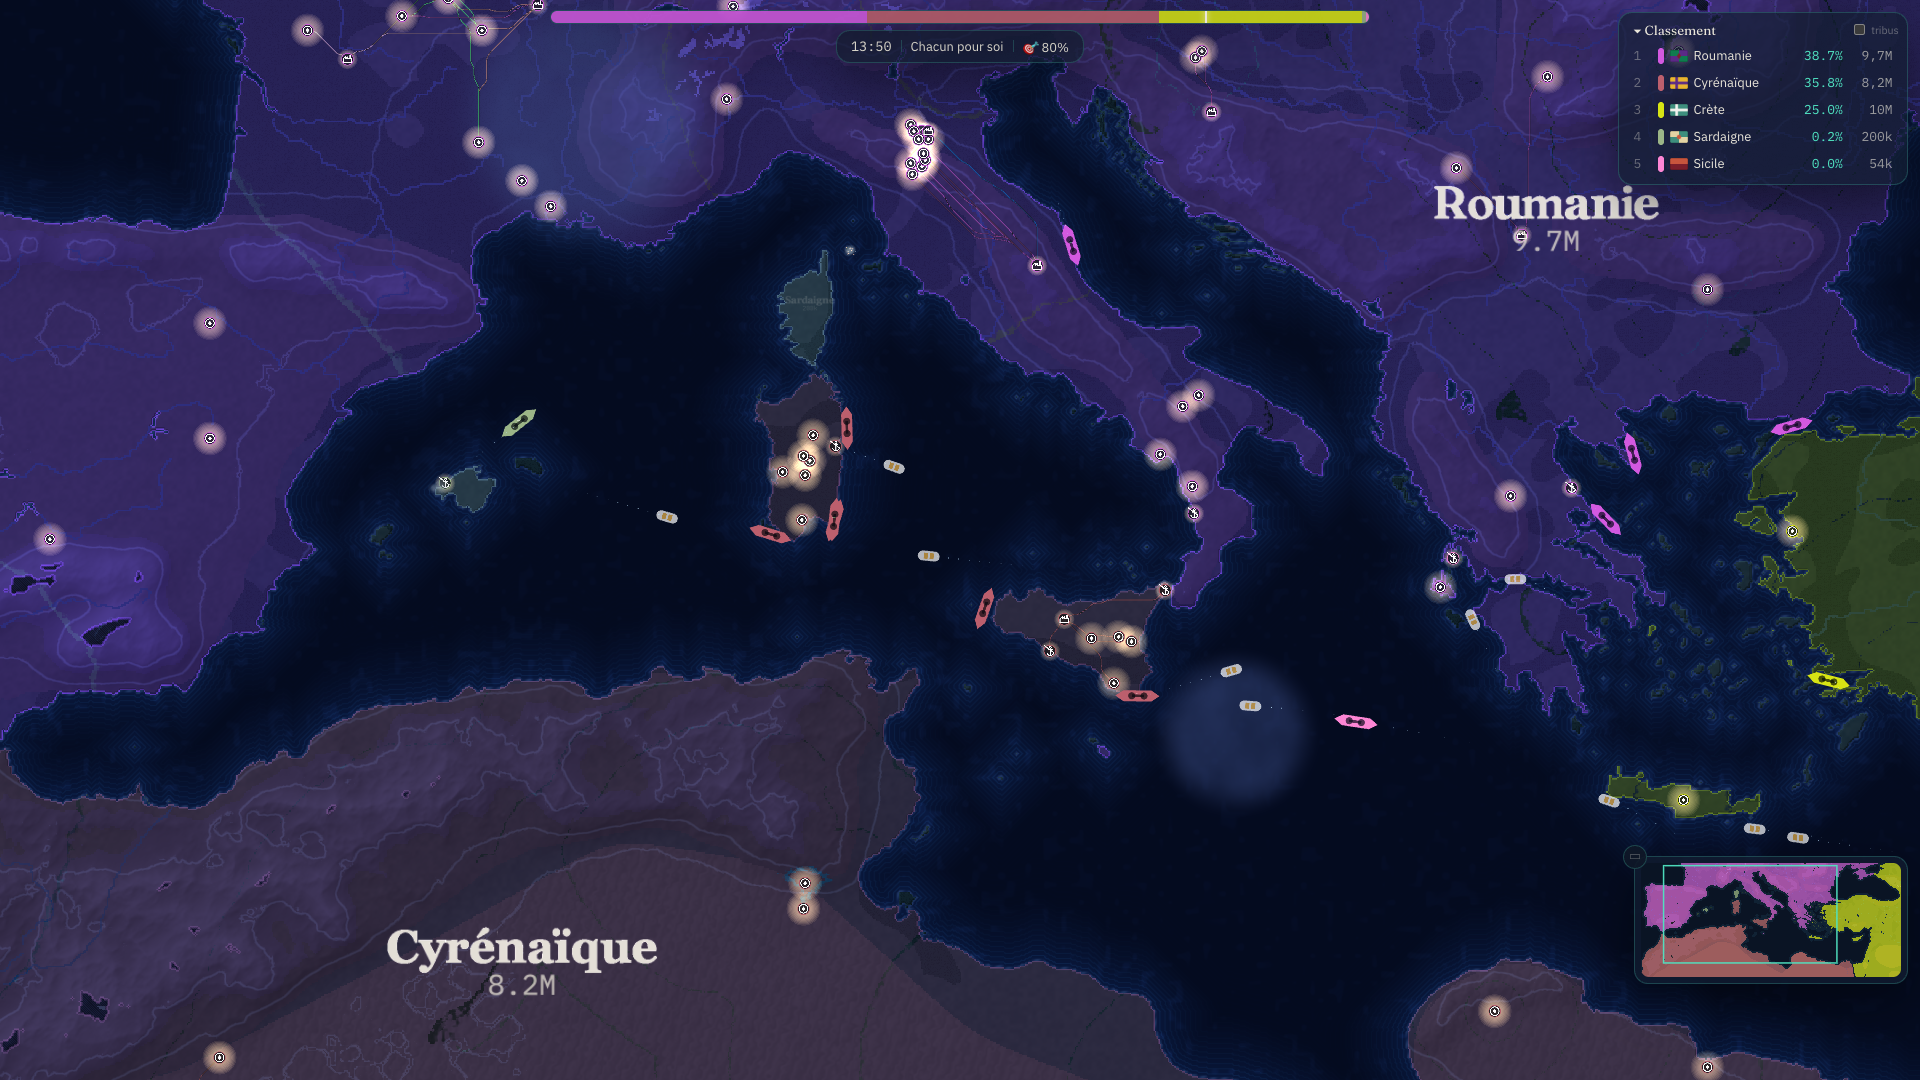
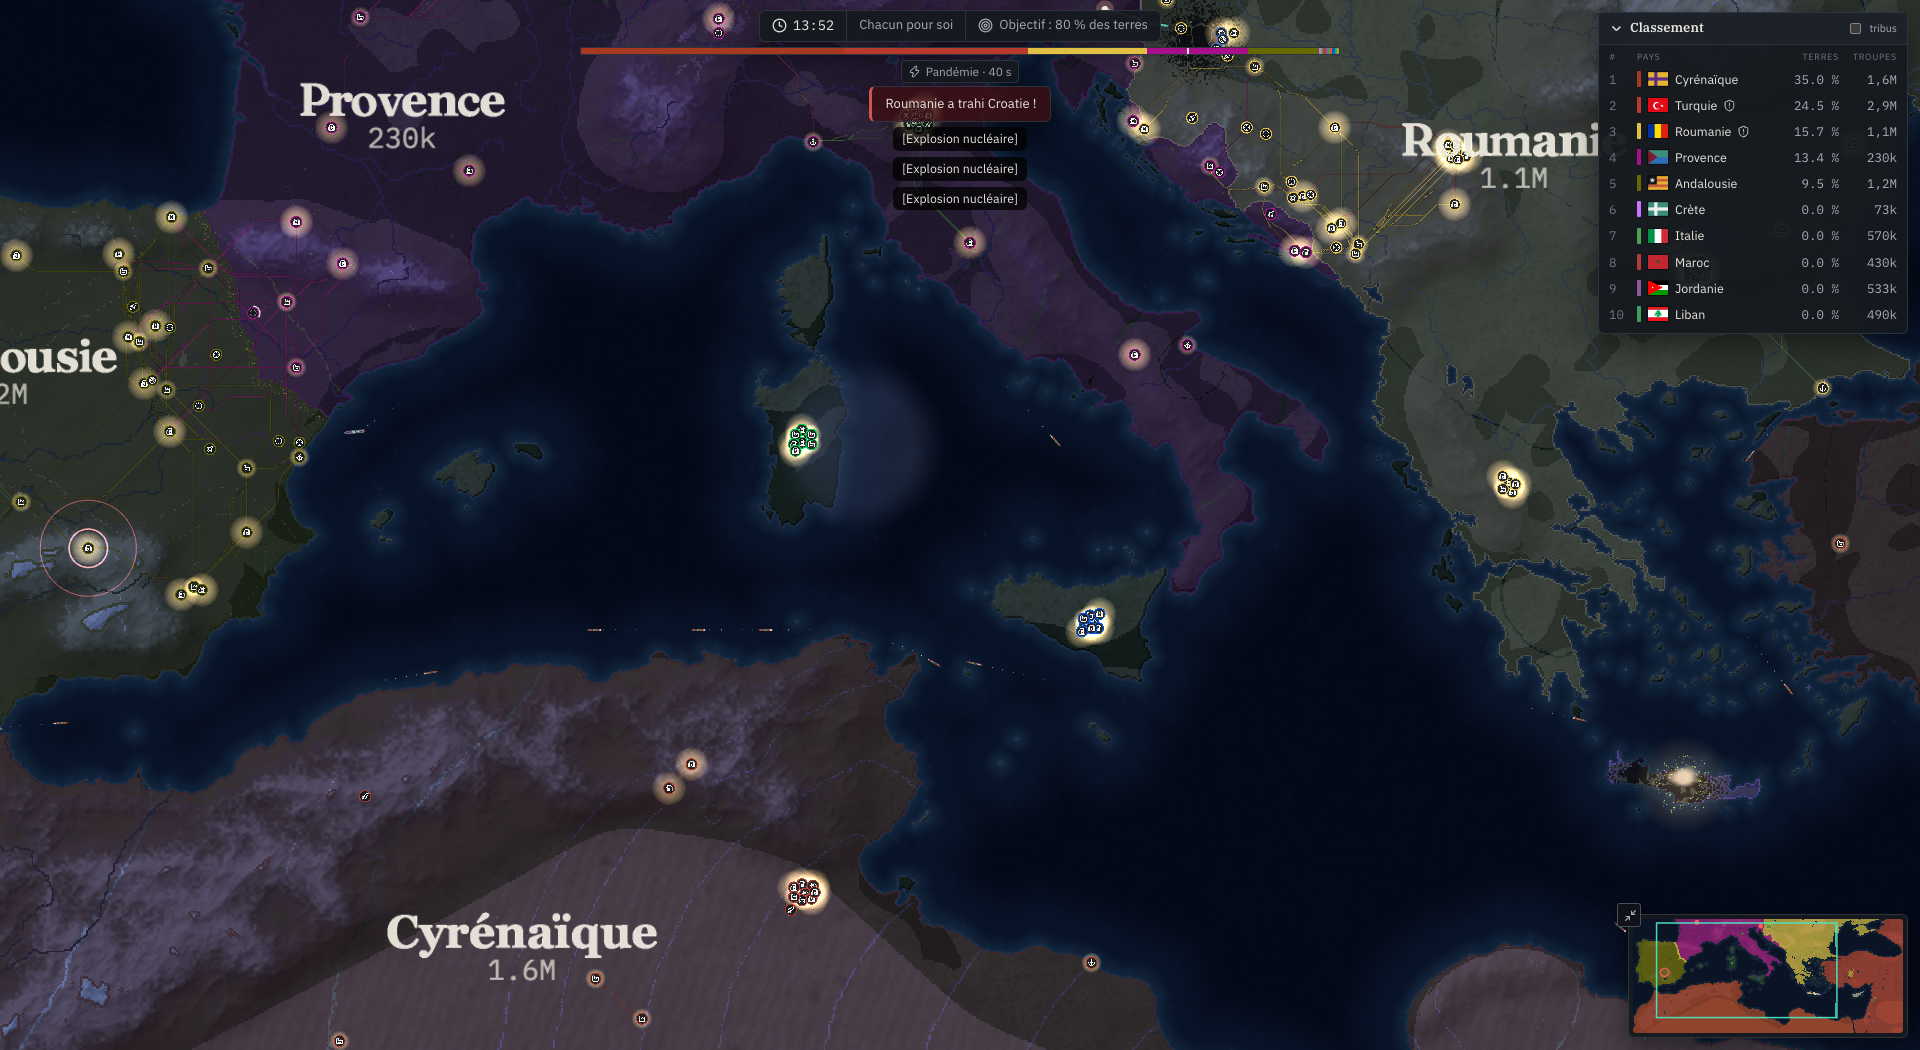
AI builds ports again (weighted build priorities), larger readable unit sprites, clean coastlines, campaign e2e test, mission-aware top bar
Claude-Session: https://claude.ai/code/session_01L32dYw1t8qE6UMExoaQKBR

diff --git a/src/render/icons.ts b/src/render/icons.ts
@@ -75,7 +75,7 @@ const WARSHIP = {
     <rect x="74" y="11.2" width="11" height="1.6" fill="#3a4148"/>
     <line x1="33" y1="12" x2="36" y2="12" stroke="#c5ccd2" stroke-width="0.8"/>`,
   mark: `<rect x="6" y="9" width="5" height="6" rx="0.8" fill="#fff"/><path d="M62 8.5 h3 v7 h-3 z" fill="#fff"/>`,
-  length: 3.2,
+  length: 5,
 };
 
 const TRANSPORT = {
@@ -87,7 +87,7 @@ const TRANSPORT = {
     <g fill="#a39c7c">${Array.from({ length: 12 }, (_, k) => `<circle cx="${16 + (k % 6) * 6}" cy="${k < 6 ? 10.5 : 15.5}" r="1.7"/>`).join('')}</g>
     <rect x="4" y="8" width="7" height="10" rx="1" fill="#8a8672"/>`,
   mark: `<rect x="52" y="8" width="4" height="10" fill="#fff"/>`,
-  length: 2.2,
+  length: 3.4,
 };
 
 const CONTAINERS = ['#b5452f', '#2f6e9e', '#c9a227', '#3d8b5a', '#8a4f9e', '#d07a2a'];
@@ -105,7 +105,7 @@ const MERCHANT = {
     <rect x="7" y="6" width="13" height="10" rx="1" fill="#e9e6dc" stroke="#6d6a62" stroke-width="0.5"/>
     <rect x="9" y="7.5" width="9" height="2" fill="#2d3237"/>`,
   mark: `<rect x="13" y="12" width="5" height="3" fill="#fff"/>`,
-  length: 3,
+  length: 4.2,
 };
 
 const TRAIN = {
@@ -123,7 +123,7 @@ const TRAIN = {
     <rect x="96" y="4.5" width="14" height="7" rx="1" fill="#454c53"/>
     <rect x="121" y="5" width="5" height="6" rx="1" fill="#d9e2e8"/>`,
   mark: `<rect x="111" y="3.5" width="9" height="9" rx="1" fill="#fff"/>`,
-  length: 3.3,
+  length: 4.4,
 };
 
 const plane = (wing: string, body: string, extra = '') => ({
@@ -131,7 +131,7 @@ const plane = (wing: string, body: string, extra = '') => ({
   h: 48,
   base: `<path d="${wing}" fill="#7f8a94" stroke="#2b3138" stroke-width="1"/><path d="${body}" fill="#a3adb6" stroke="#2b3138" stroke-width="0.8"/>${extra}`,
   mark: `<circle cx="22" cy="14" r="2.6" fill="#fff"/><circle cx="22" cy="34" r="2.6" fill="#fff"/>`,
-  length: 1.6,
+  length: 2.4,
 });
 
 const FIGHTER = plane(
@@ -144,14 +144,14 @@ const BOMBER = {
     'M28 24 L22 2 L17 2 L18 21 L8 21 L5 18 L3 18 L5 24 L3 30 L5 30 L8 27 L18 27 L17 46 L22 46 Z',
     'M46 24 Q43 21 32 21 L4 22 L4 26 L32 27 Q43 27 46 24 Z',
   ),
-  length: 2.2,
+  length: 3.2,
 };
 const RECON = {
   ...plane(
     'M28 24 L24 4 L21 4 L21 22 L10 22.5 L8 21 L6 21.5 L8 24 L6 26.5 L8 27 L10 25.5 L21 26 L21 44 L24 44 Z',
     'M44 24 Q41 22.4 32 22.4 L8 23 L8 25 L32 25.6 Q41 25.6 44 24 Z',
   ),
-  length: 1.4,
+  length: 2,
 };
 
 async function unit(art: {

diff --git a/src/core/npc/ai.ts b/src/core/npc/ai.ts
@@ -414,29 +414,34 @@ function randomInterior(game: Game, p: Player): number {
 
 function tryBuild(game: Game, p: Player, m: Mem, t: Traits, underAttack: boolean): number {
   const counts = p.buildingCount;
-  const wish: B[] = [];
+  // Weighted wishes: the first port and first factory matter more than the n-th city.
+  const scored: [B, number][] = [];
   const cities = counts[B.City]!;
-  if (cities < 2 + p.tiles / 6000) wish.push(B.City);
-  if (game.config.allowPorts && p.coast.length > 0 && counts[B.Port]! < 1 + cities / 2 && t.trade > 0.7)
-    wish.push(B.Port);
-  if (game.config.allowFactories && cities >= 2 && counts[B.Factory]! < cities / 2) wish.push(B.Factory);
+  const cityTarget = 2 + p.tiles / 6000;
+  if (cities < cityTarget) scored.push([B.City, (1 + (cityTarget - cities) / cityTarget) * t.build]);
+  if (game.config.allowPorts && p.coast.length > 0 && counts[B.Port]! < 1 + cities / 2 && t.trade > 0.3)
+    scored.push([B.Port, (counts[B.Port]! === 0 ? 2.2 : 1.1) * t.trade]);
+  if (game.config.allowFactories && cities >= 2 && counts[B.Factory]! < cities / 2)
+    scored.push([B.Factory, counts[B.Factory]! === 0 ? 1.9 : 1.0]);
   if (
     game.config.allowNukes &&
     p.gold > 2_500_000 &&
     counts[B.Silo]! < (t.nukes > 1 ? 3 : 1) &&
     game.tick - game.startTick > 3000
   )
-    wish.push(B.Silo);
+    scored.push([B.Silo, 1.4 * t.nukes]);
   if (
     game.config.allowNukes &&
     (game.ai.nukedBy.has(p.id) || p.gold > 6_000_000) &&
     counts[B.Sam]! < 1 + cities / 3
   )
-    wish.push(B.Sam);
-  if (game.config.features.radar && counts[B.Radar]! < 1 && p.gold > 1_000_000) wish.push(B.Radar);
+    scored.push([B.Sam, game.ai.nukedBy.has(p.id) ? 3 : 1.2]);
+  if (game.config.features.radar && counts[B.Radar]! < 1 && p.gold > 1_000_000) scored.push([B.Radar, 0.9]);
   if (game.config.features.air && counts[B.Airfield]! < 1 && p.gold > 3_000_000 && t.aggression > 1)
-    wish.push(B.Airfield);
-  if (!underAttack && wish.length === 0) wish.push(B.City);
+    scored.push([B.Airfield, 1.1]);
+  if (!underAttack && scored.length === 0) scored.push([B.City, 0.5]);
+  scored.sort((x, y) => y[1] - x[1] || x[0] - y[0]);
+  const wish = scored.map(([k]) => k);
   for (const kind of wish) {
     const price = buildCost(game, p, kind);
     if (p.gold < price) continue;

diff --git a/src/render/shaders.ts b/src/render/shaders.ts
@@ -91,6 +91,11 @@ vec4 inkOf(float id) {
 
 bool isWaterId(float t) { return t < 2.5; }
 
+bool waterAt(ivec2 t) {
+  t = clamp(t, ivec2(0), ivec2(uSize) - 1);
+  return texelFetch(uTerrain, t, 0).r * 255.0 < 2.5;
+}
+
 // Realistic, satellite-like ground colours per terrain (with natural variation).
 vec3 biome(float t, vec2 p, float elev) {
   float n = fbm(p * 0.06);
@@ -112,7 +117,7 @@ vec3 biome(float t, vec2 p, float elev) {
   } else if (t < 7.5) {        // desert: sand seas and darker regs
     float dune = sin(p.x * 0.7 + p.y * 0.25 + n * 6.0) * 0.5 + 0.5;
     c = mix(vec3(0.79, 0.67, 0.46), vec3(0.86, 0.75, 0.54), dune * 0.5 + m * 0.5);
-    c = mix(c, vec3(0.62, 0.50, 0.36), smoothstep(0.62, 0.85, n) * 0.6);
+    c = mix(c, vec3(0.70, 0.58, 0.42), smoothstep(0.55, 0.9, vnoise(p * 0.12)) * 0.3);
   } else if (t < 8.5) {        // forest: dense canopy
     float canopy = smoothstep(0.35, 0.8, fine);
     c = mix(vec3(0.17, 0.30, 0.14), vec3(0.12, 0.23, 0.11), canopy);
@@ -249,10 +254,11 @@ void main() {
 
   // Borders: screen-space glowing ink lines with a slow flowing pulse.
   {
-    float l = ownerAt(ti + ivec2(-1, 0));
-    float r = ownerAt(ti + ivec2(1, 0));
-    float u = ownerAt(ti + ivec2(0, -1));
-    float d = ownerAt(ti + ivec2(0, 1));
+    // Water neighbours do not make a border (coasts stay clean): treat them as "same owner".
+    float l = waterAt(ti + ivec2(-1, 0)) ? own : ownerAt(ti + ivec2(-1, 0));
+    float r = waterAt(ti + ivec2(1, 0)) ? own : ownerAt(ti + ivec2(1, 0));
+    float u = waterAt(ti + ivec2(0, -1)) ? own : ownerAt(ti + ivec2(0, -1));
+    float d = waterAt(ti + ivec2(0, 1)) ? own : ownerAt(ti + ivec2(0, 1));
     float dist = 9.0;
     float other = own;
     if (l != own) { dist = min(dist, f.x); other = l; }

diff --git a/tests/e2e/flows.spec.ts b/tests/e2e/flows.spec.ts
@@ -115,3 +115,34 @@ function toSec(s: string): number {
   const [m, x] = s.split(':').map(Number);
   return m! * 60 + x!;
 }
+
+test('campaign: briefing pauses the game, then the guide advances as steps are completed', async () => {
+  const { app, page, errors } = await launch();
+  await expect(page.getByTestId('title-screen')).toBeVisible({ timeout: 20_000 });
+  await page.getByTestId('menu-play').click();
+  await page.getByTestId('menu-campaign').click();
+  await page.getByTestId('mission-m1').click();
+  await expect(page.getByTestId('briefing')).toBeVisible({ timeout: 30_000 });
+  await page.getByTestId('briefing-start').click();
+  await expect(page.getByTestId('briefing')).toBeHidden();
+  const guide = page.getByTestId('dialogue');
+  await expect(guide).toBeVisible();
+  await expect(guide).toContainText(/1 \/ |1 sur|Step 1|Étape 1/);
+  await expect(page.getByTestId('objectives')).toBeVisible();
+  // Place the capital near the map centre: the match starts and the guide moves on.
+  const box = (await page.locator('canvas').first().boundingBox())!;
+  for (const [fx, fy] of [
+    [0.5, 0.2],
+    [0.3, 0.5],
+    [0.7, 0.8],
+    [0.5, 0.85],
+  ]) {
+    await page.mouse.click(box.x + box.width * fx, box.y + box.height * fy);
+    if (await page.getByTestId('clock').isVisible()) break;
+    await page.waitForTimeout(500);
+  }
+  await expect(page.getByTestId('clock')).toBeVisible({ timeout: 20_000 });
+  await expect(guide).toContainText(/Étape 2|Step 2/, { timeout: 20_000 });
+  expect(errors).toEqual([]);
+  await app.close();
+});

diff --git a/src/ui/hud/TopBar.svelte b/src/ui/hud/TopBar.svelte
@@ -52,9 +52,9 @@
       <span class="item">{t(`mode.${mode}`)}</span>
       <span class="item goal-txt" data-tip={t('hud.victoryThresholdTip', { pct: threshold })}>
         <Icon name="target" size={15} />
-        {#if threshold > 100}{t('hud.noVictory')}{:else}{t('hud.goal', {
-            pct: threshold,
-          })}{/if}
+        {#if mode === 'campaign' || mode === 'tutorial'}{t('hud.goalMission')}{:else if threshold > 100}{t(
+            'hud.noVictory',
+          )}{:else}{t('hud.goal', { pct: threshold })}{/if}
         {#if hud.viewer > 0}<span class="mine mono"
             >{t('hud.youHold', { pct: (myShare * 100).toFixed(1) })}</span
           >{/if}
@@ -69,7 +69,10 @@
           title="{s.name} — {(s.share * 100).toFixed(1)} %"
         ></div>
       {/each}
-      {#if threshold <= 100}<div class="goal" style="left:{threshold}%"></div>{/if}
+      {#if threshold <= 100 && mode !== 'campaign' && mode !== 'tutorial'}<div
+          class="goal"
+          style="left:{threshold}%"
+        ></div>{/if}
     </div>
     <div class="status">
       {#if (hud.world?.doomsday ?? -1) > 0}

diff --git a/src/ui/game/controller.ts b/src/ui/game/controller.ts
@@ -163,6 +163,21 @@ export class GameController {
         },
         hud: () => ({ tick: hud.tick, end: !!hud.end }),
         buildings: () => this.session.state.buildings.map((b) => ({ ...b })),
+        units: () => {
+          const st = this.session.state;
+          const out: { id: number; type: number; owner: number; x: number; y: number }[] = [];
+          for (let k = 0; k < st.unitCount; k++) {
+            const o = k * 15;
+            out.push({
+              id: st.units[o]!,
+              type: st.units[o + 1]!,
+              owner: st.units[o + 2]!,
+              x: st.units[o + 3]!,
+              y: st.units[o + 4]!,
+            });
+          }
+          return out;
+        },
         ownerOf: (t: number) => this.session.state.owner[t] ?? 0,
         freeLand: (t: number) => {
           const st = this.session.state;

diff --git a/src/render/renderer.ts b/src/render/renderer.ts
@@ -482,7 +482,16 @@ export class GameRenderer {
       if (!sp.visible) continue;
       // Real size in tiles when zoomed in; a readable minimum on screen when zoomed out.
       const lenTiles = this.unitArt(type).length;
-      const minPx = type === U.Merchant ? 16 : type === U.Train ? 18 : 24;
+      const minPx =
+        type === U.Warship
+          ? 70
+          : type === U.Merchant
+            ? 50
+            : type === U.Train
+              ? 60
+              : type >= U.Fighter
+                ? 44
+                : 56;
       sp.scale.set(Math.max(1, minPx / (lenTiles * z)));
       (sp.children[1] as Sprite).tint = this.inkOf(owner);
       sp.alpha = type === U.Merchant ? 0.85 : 1;
